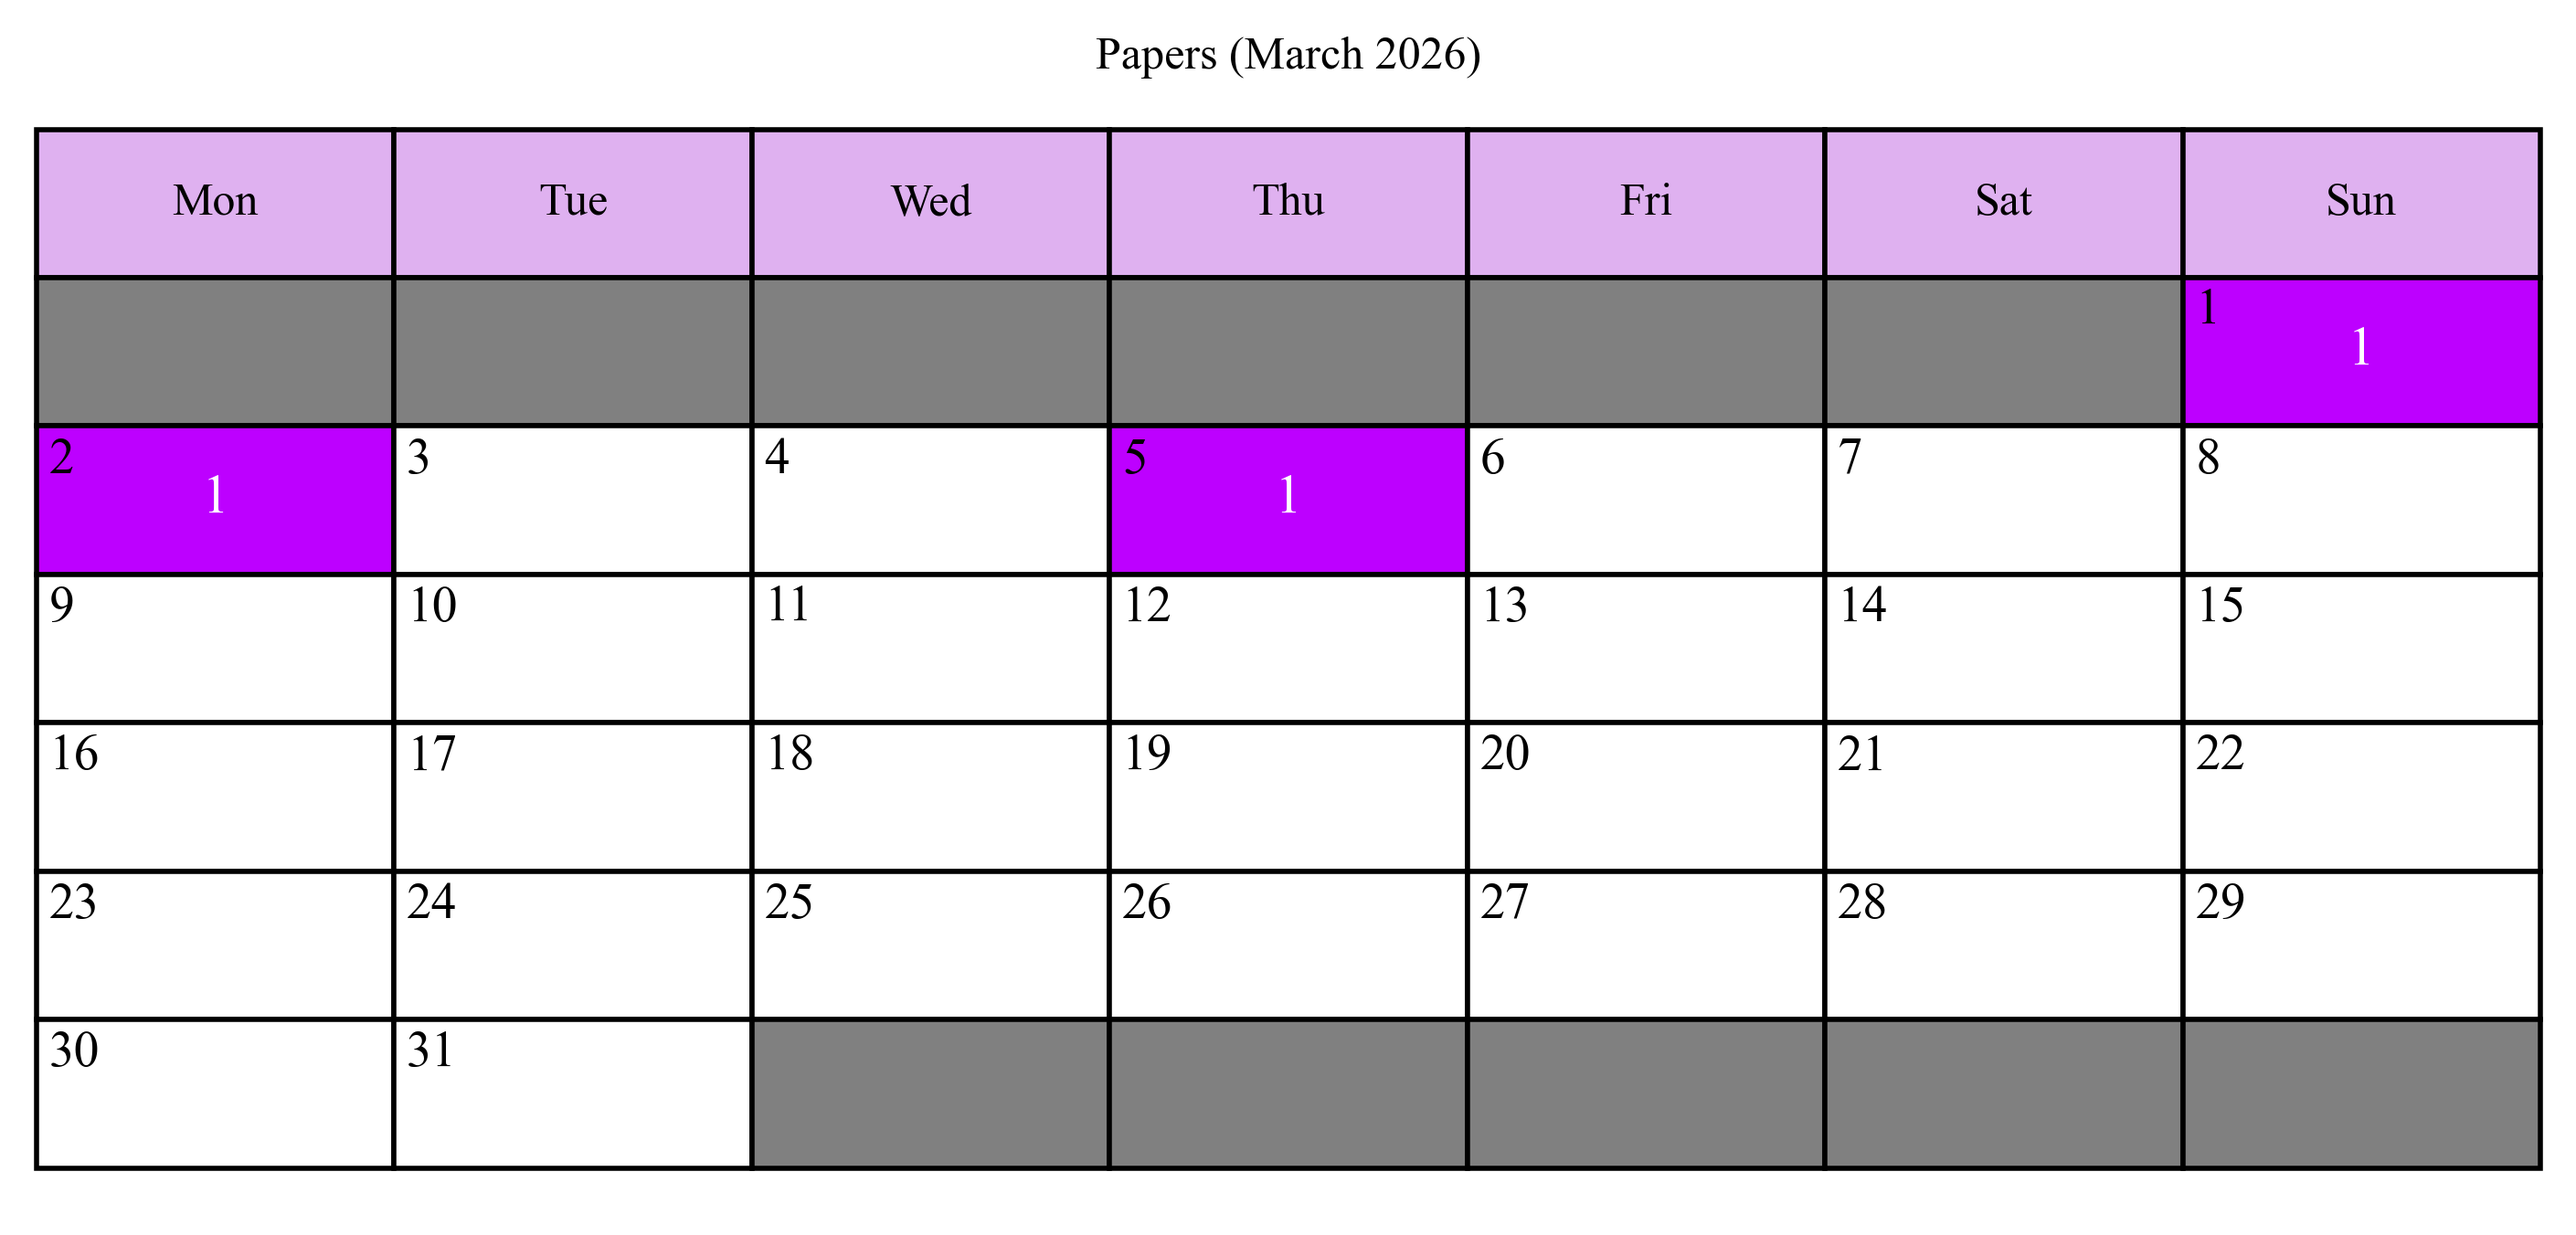
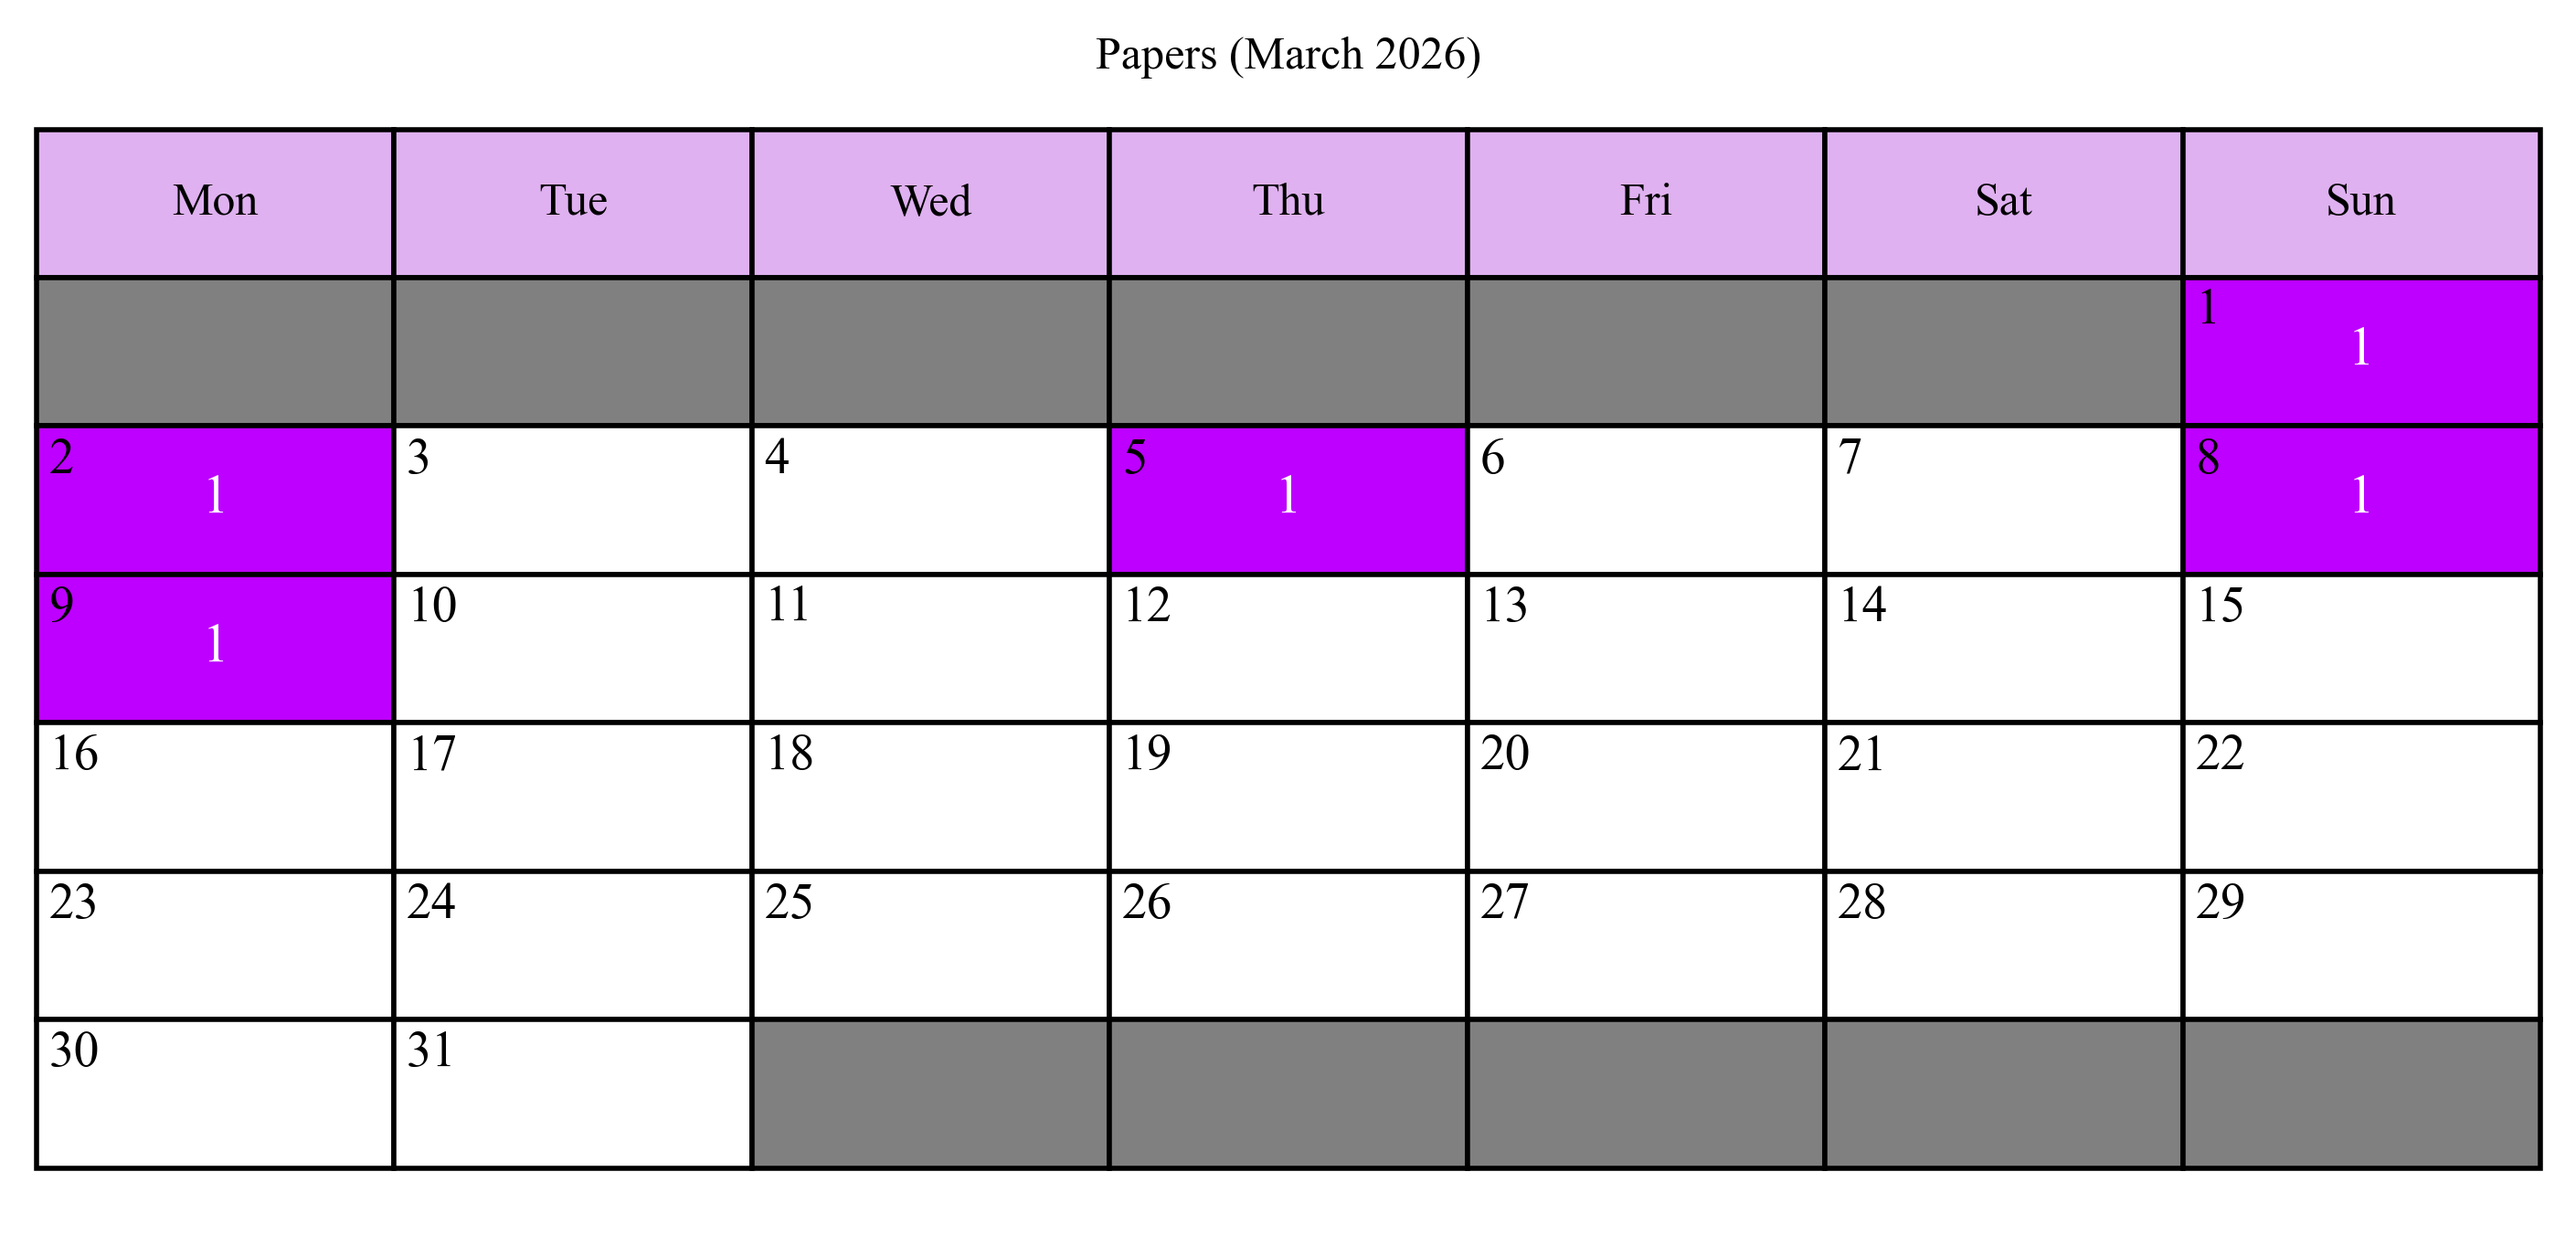
(Automated) updated paper log: March 09, 2026

Changed region(s): [[0.8429, 0.3417, 0.9989, 0.466], [0.0, 0.466, 0.1561, 0.5902]]

diff --git a/papers/index.html b/papers/index.html
@@ -29,11 +29,13 @@
       <div class="main-content">
         <div class="main-section">
           <!-- <summary_text> -->
-<p>This is where I log the papers I've read this year. My goal for 2026 is to read 300 papers. By the time this document was last updated (<b>March 06, 2026</b>), I have read <b>25 papers</b> this year. I should have read <b>53 papers</b> by this time, meaning I am <b>28 papers behind schedule</b>.</p>
+<p>This is where I log the papers I've read this year. My goal for 2026 is to read 300 papers. By the time this document was last updated (<b>March 09, 2026</b>), I have read <b>27 papers</b> this year. I should have read <b>55 papers</b> by this time, meaning I am <b>28 papers behind schedule</b>.</p>
           <!-- </summary_text> -->
           <p><img src="cal.png" style="width: 100%;" alt="A monthly calendar depicting the following tabular data graphically."></p>
           <!-- <paper_table> -->
 <table>
+  <tr><td>3/9/26</td><td>HiCCL: A Hierarchical Collective Communication Library</td><td><a href="https://www.computer.org/csdl/proceedings-article/ipdps/2025/323700a950/28Ai730OZtS" target="_parent">Link</a></td><td>Stanford University, IPDPS, 2025</td></tr>
+  <tr><td>3/8/26</td><td>MPM-LLM4DSE: Reaching the Pareto Frontier in HLS with Multimodal Learning and LLM-Driven Exploration</td><td><a href="https://arxiv.org/abs/2601.04801v1" target="_parent">Link</a></td><td>Shantou University, DATE, 2026</td></tr>
   <tr><td>3/5/26</td><td>Exploring GPU-to-GPU Communication: Insights into Supercomputer Interconnects</td><td><a href="https://ieeexplore.ieee.org/document/10793179" target="_parent">Link</a></td><td>University of Rome, SC, 2024</td></tr>
   <tr><td>3/2/26</td><td>RDMA over Ethernet for Distributed Training at Meta Scale</td><td><a href="https://dl.acm.org/doi/10.1145/3651890.3672233" target="_parent">Link</a></td><td>Meta, ACM SIGCOMM, 2024</td></tr>
   <tr><td>3/1/26</td><td>big.VLITTLE: On-Demand Data-Parallel Acceleration for Mobile Systems on Chip</td><td><a href="https://ieeexplore.ieee.org/document/9923890" target="_parent">Link</a></td><td>Cornell University, MICRO, 2022</td></tr>
@@ -73,7 +75,7 @@
       <!-- <last_updated_text> --> 
 <div class="last-updated">
   <p class="last-updated-text">
-    Last updated: March 06, 2026 at 16:15 UTC.
+    Last updated: March 09, 2026 at 22:23 UTC.
   </p>
 </div>
 
